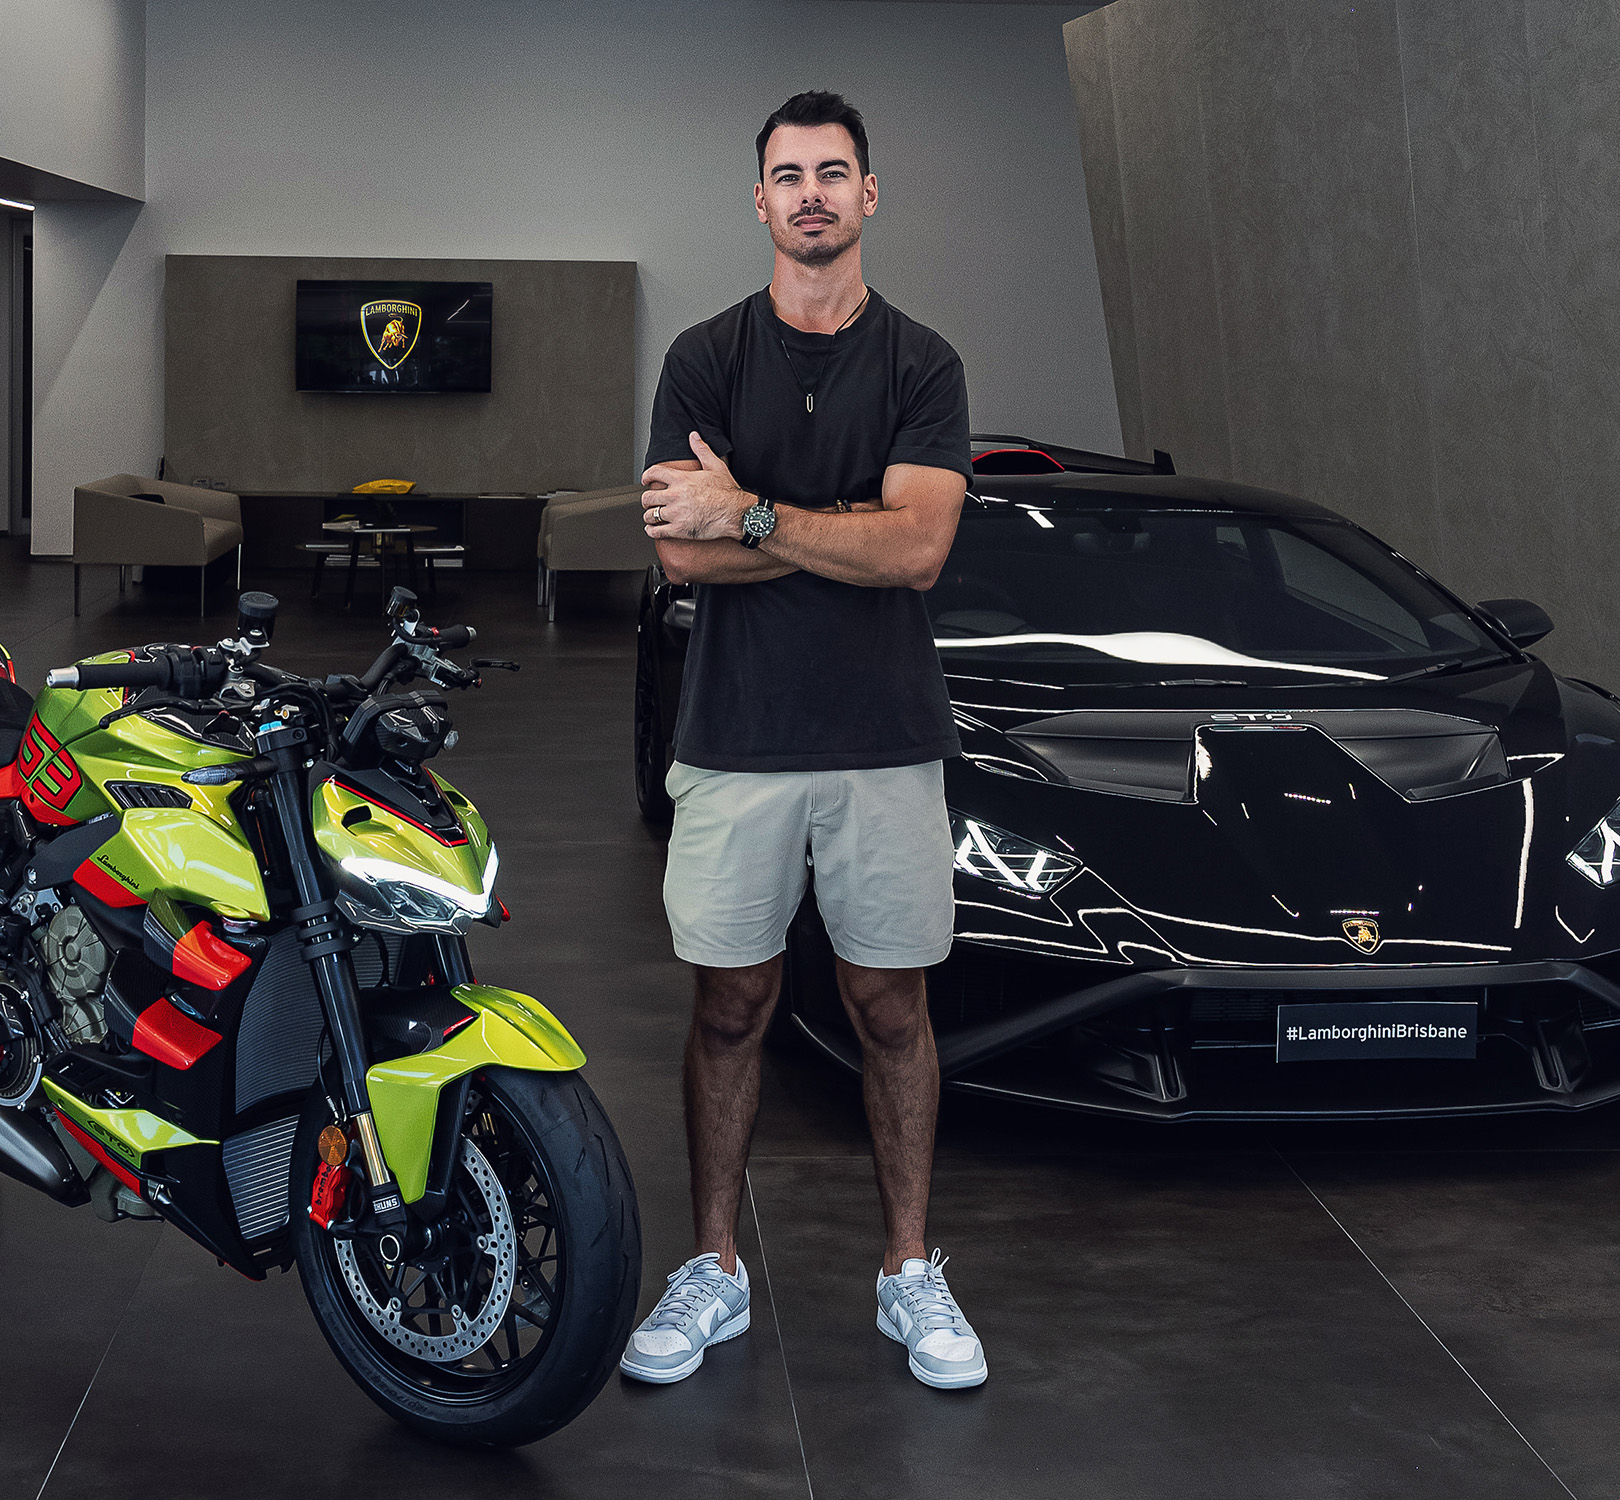
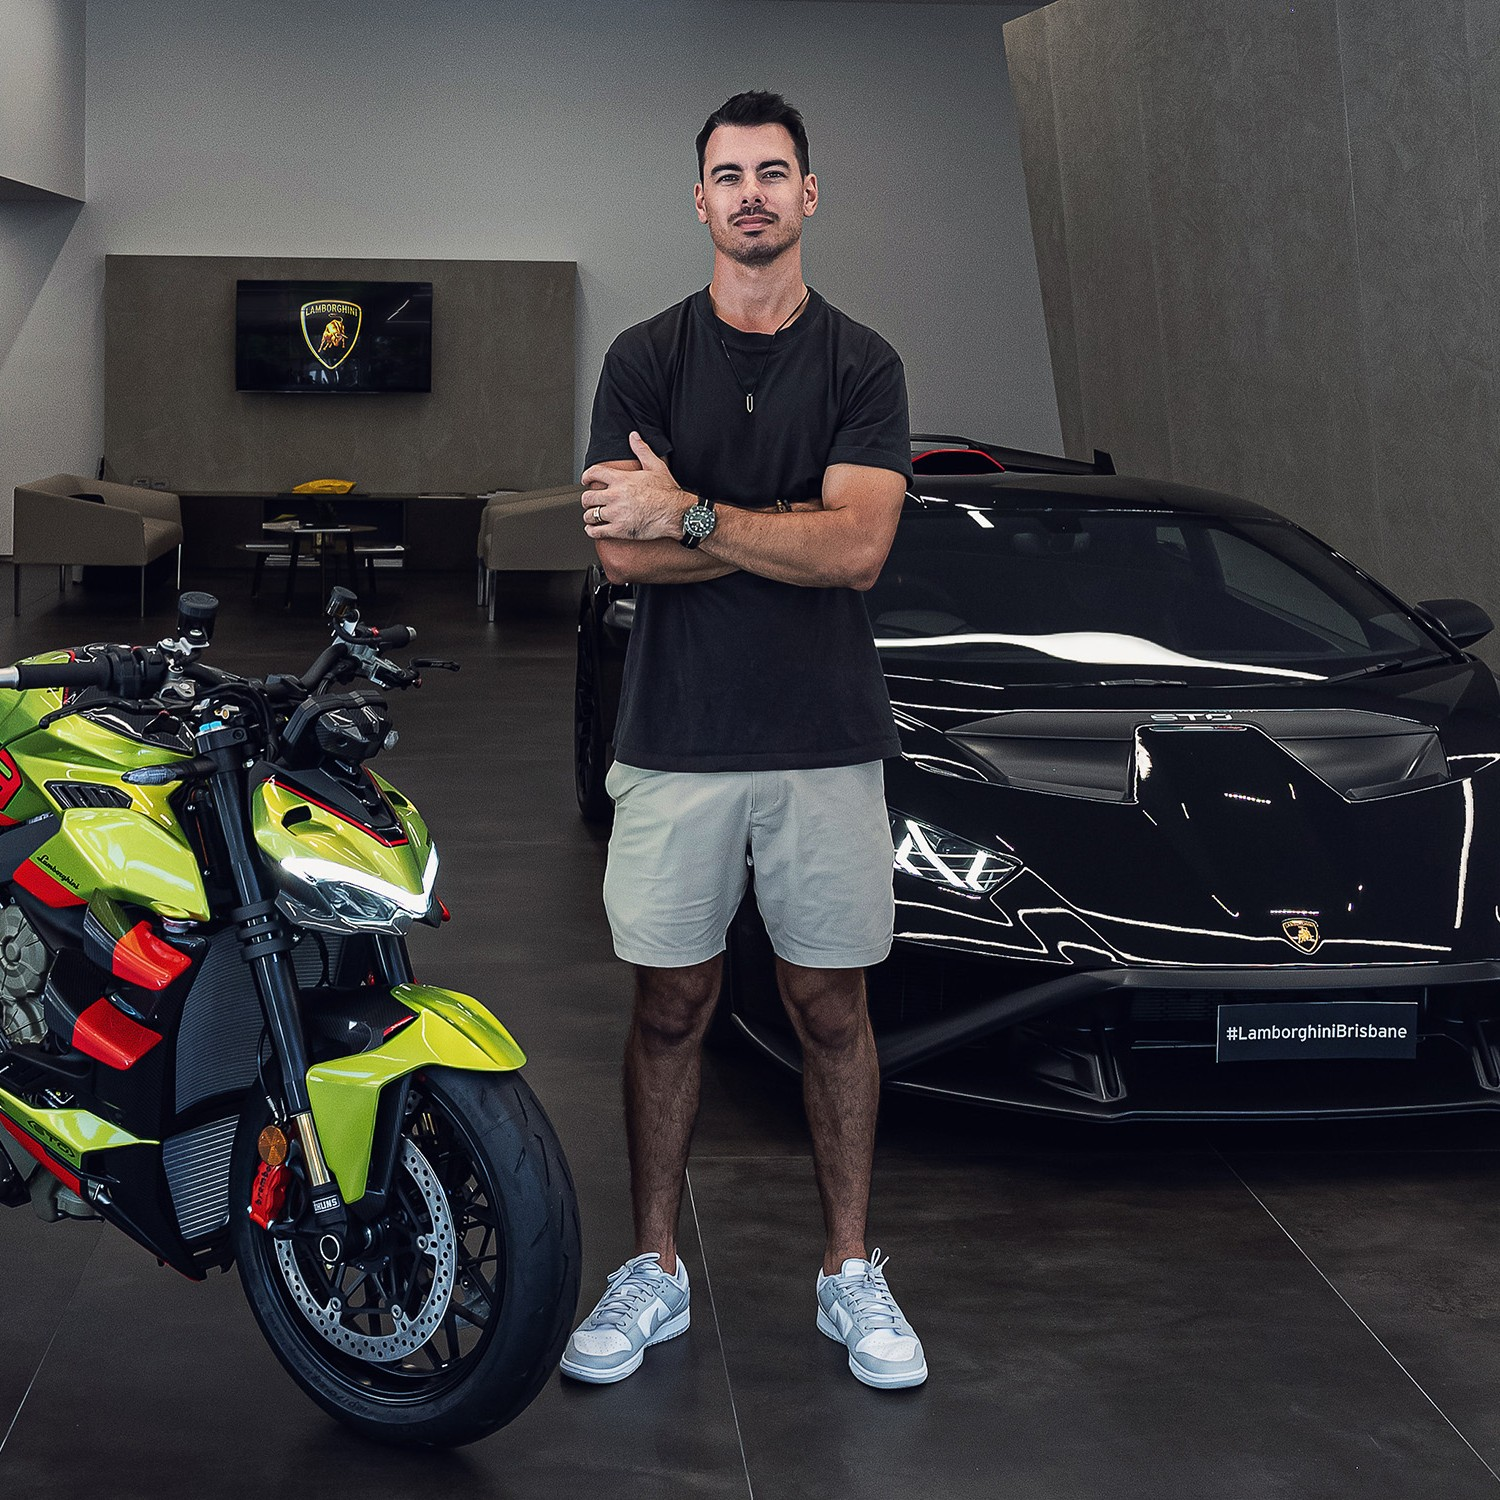
About: new square photo, thinner gold frame
Claude-Session: https://claude.ai/code/session_01Wkp98umZnBvbqqd53fYVh8

diff --git a/index.html b/index.html
@@ -140,11 +140,11 @@ p { font-size: clamp(16px, 4.4vw, 17px); line-height: 1.65; color: var(--w80); }
 }
 .story-photo { order: -1; margin-bottom: 22px; }
 @media (min-width: 768px) { .story-photo { order: 0; margin-bottom: 0; } }
-.photo-frame { position: relative; border: 2px solid var(--gold); border-radius: 4px; overflow: hidden; aspect-ratio: 4 / 5; width: 100%; }
+.photo-frame { position: relative; border: 1px solid var(--gold); border-radius: 4px; overflow: hidden; aspect-ratio: 1 / 1; width: 100%; }
 .photo-frame img { width: 100%; height: 100%; object-fit: cover; }
-.photo-frame::before, .photo-frame::after { content: ''; position: absolute; width: 14px; height: 14px; background: var(--gold); z-index: 1; }
-.photo-frame::before { top: -2px; left: -2px; clip-path: polygon(0 0, 100% 0, 100% 30%, 30% 30%, 30% 100%, 0 100%); }
-.photo-frame::after { bottom: -2px; right: -2px; clip-path: polygon(0 70%, 70% 70%, 70% 0, 100% 0, 100% 100%, 0 100%); }
+.photo-frame::before, .photo-frame::after { content: ''; position: absolute; width: 12px; height: 12px; background: var(--gold); z-index: 1; }
+.photo-frame::before { top: -1px; left: -1px; clip-path: polygon(0 0, 100% 0, 100% 30%, 30% 30%, 30% 100%, 0 100%); }
+.photo-frame::after { bottom: -1px; right: -1px; clip-path: polygon(0 70%, 70% 70%, 70% 0, 100% 0, 100% 100%, 0 100%); }
 .story-text { display: flex; flex-direction: column; gap: 14px; }
 .story-text p { margin: 0; }
 .story-text .anchor-line { color: var(--w); font-weight: 600; }
